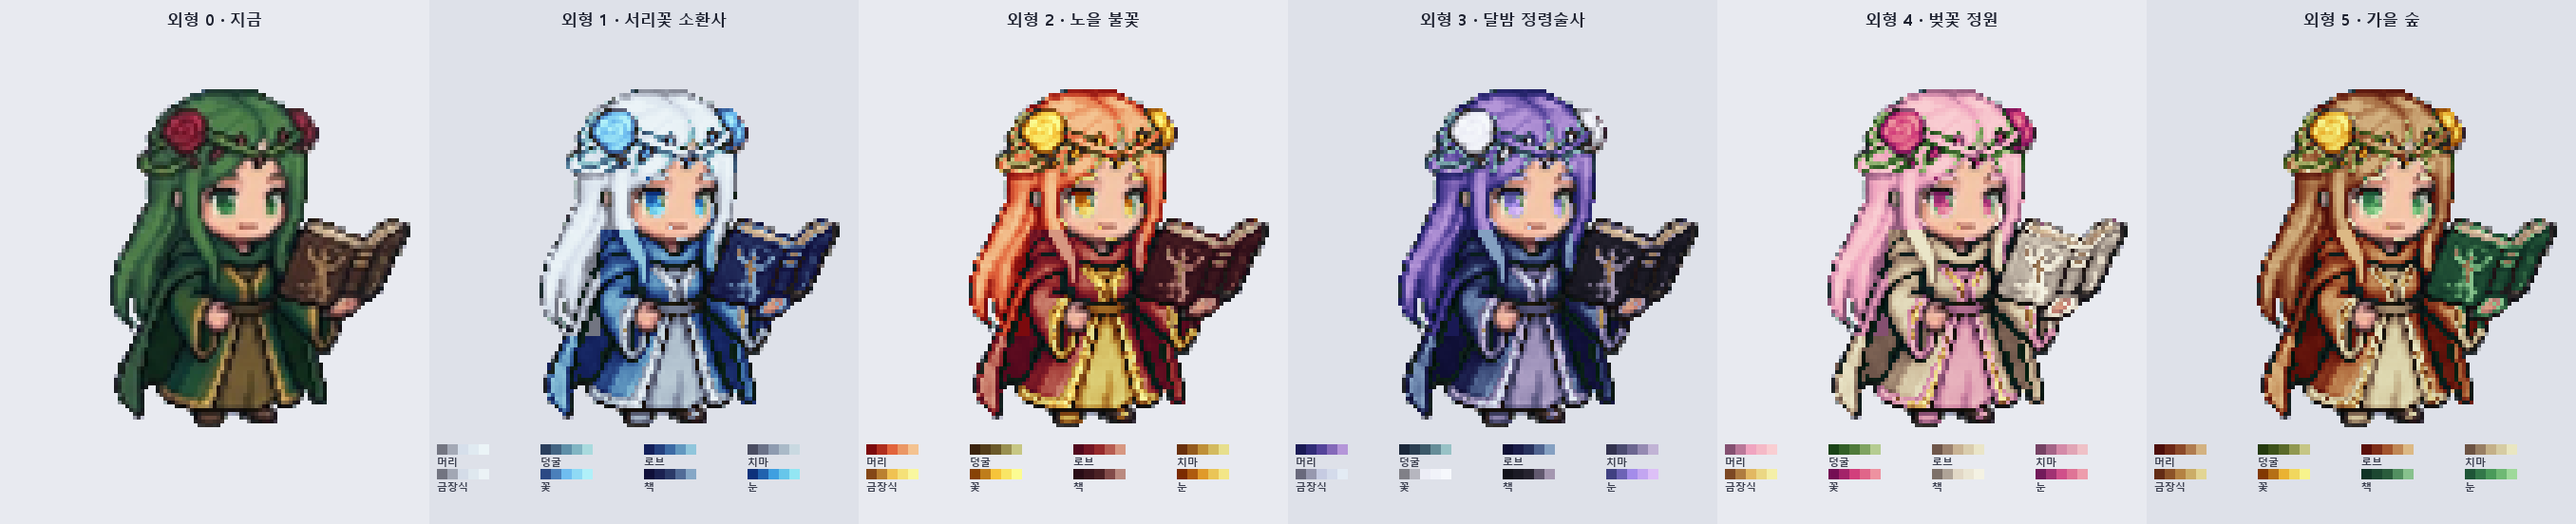
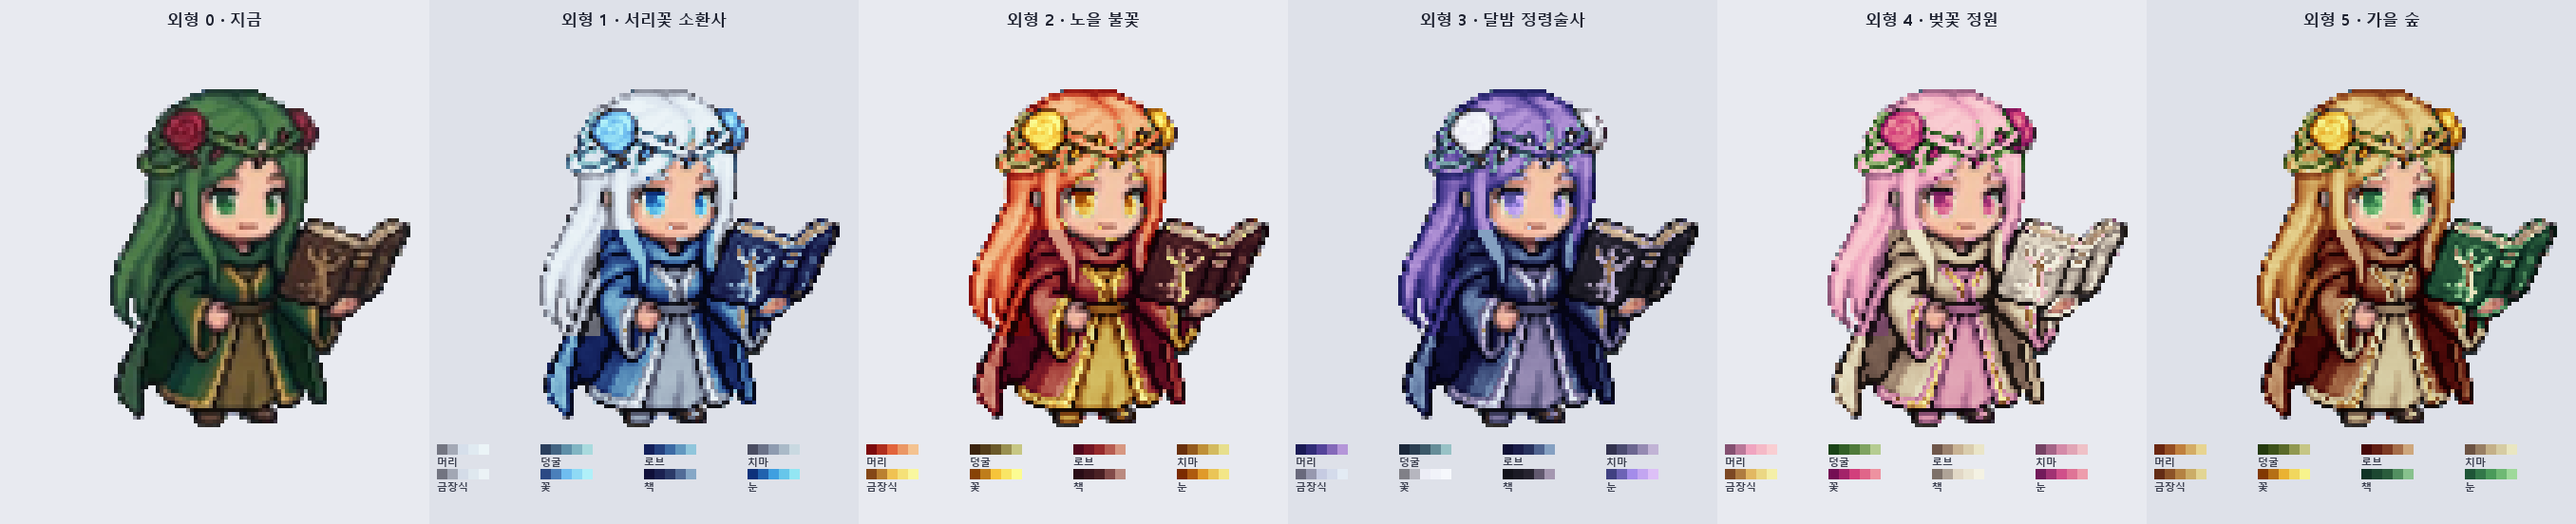
Summoner skin samples: fix outline and colour errors found frame by frame
Each sample was checked at 8x on a pixel grid.

Outline and colour fixes:
- Outlines: the original green-black outline stayed as it was, so the red, pink and rust robes had a teal rim. Outline pixels now take the darkest ramp hue of the nearest part (selout, as in pxl and pixel-art-studio) and keep their darkness. Outlines next to skin stay.
- Dark strands: pixels darker than the part's bottom 5% (hair strands, fold lines) go darker than the ramp's bottom colour by the same ratio, so the silver and pink hair keep their strands.
- Leftover green: faint edge pixels, low-saturation grey-green, teal shadows (hue 185-195) and the yellow-green around the crown kept the original colour. They now belong to their part.
- Eyes: the dull green at the bottom of the iris stayed green; the eye threshold is lower now. The fringe left of the eye stays hair.
- Book: only the cover (value under 0.5) is recoloured; the light page edges stay.

Colour change:
- 5 Autumn forest: hair and robe were both russet and merged at the shoulders. The hair is now light amber (#c0803e) and the robe a dark rust (#7e3b24).

diff --git a/tools/summoner_palette_preview.py b/tools/summoner_palette_preview.py
@@ -22,7 +22,7 @@ VARIANTS = [
     (2, '노을 불꽃',     dict(hair='#e2643c', vine='#6b5a2a', robe='#962a2c', skirt='#bf9038', trim='#f0c252', flower='#f6c43a', book='#4a2024', eyes='#e09a2a')),
     (3, '달밤 정령술사', dict(hair='#55449a', vine='#3d5a6a', robe='#28325e', skirt='#6c6690', trim='#c6cbe2', flower='#ecedf6', book='#26232f', eyes='#a48cea')),
     (4, '벚꽃 정원',     dict(hair='#f0a4c0', vine='#4f7a3a', robe='#c9b394', skirt='#d48aa8', trim='#e2b862', flower='#d23f7c', book='#e2d8c6', eyes='#d0508a')),
-    (5, '가을 숲',       dict(hair='#8c4a2a', vine='#5a6a2a', robe='#a3552e', skirt='#c4b088', trim='#b48242', flower='#eab232', book='#2a5c3c', eyes='#4a9a5a')),
+    (5, '가을 숲',       dict(hair='#c0803e', vine='#5a6a2a', robe='#7e3b24', skirt='#c4b088', trim='#b48242', flower='#eab232', book='#2a5c3c', eyes='#4a9a5a')),
 ]
 PARTS = ('hair', 'vine', 'robe', 'skirt', 'trim', 'flower', 'book', 'eyes')
 
@@ -50,15 +50,16 @@ def ramp_color(base, t, dark=0.45, light=0.62):
 
 
 def masks(im):
-    a = im[..., 3] > 200
+    a = im[..., 3] > 0   # 가장자리 반투명 픽셀까지 (빼면 머리 끝에 원래 회녹색이 남음)
     hsv = np.array([colorsys.rgb_to_hsv(*(p / 255)) for p in im[..., :3].reshape(-1, 3)]).reshape(H, W, 3)
     h, s, v = hsv[..., 0] * 360, hsv[..., 1], hsv[..., 2]
     yy, xx = np.mgrid[0:H, 0:W]
     outline = v < 0.14
     skin = a & (h >= 5) & (h < 40) & (s <= 0.45) & (v > 0.6)
-    green = a & (h >= 85) & (h < 185) & (s > 0.15) & ~outline
+    green = a & (h >= 85) & (h < 195) & (s > 0.08) & ~outline   # 채도 낮은 회녹색(머리 끝·로브 그늘)·청록빛 그늘(185~195)까지
+    green |= a & (h >= 70) & (h < 85) & (s > 0.08) & (yy < 40) & ~outline   # 화관 둘레 누런 초록 (치마 올리브와 겹치는 색이라 머리 높이에서만)
     eyebox = (xx >= 57) & (xx <= 74) & (yy >= 38) & (yy <= 48)   # 눈 왼쪽 앞머리(x 54~56)는 머리
-    eyes = green & eyebox & (s > 0.3)
+    eyes = green & eyebox & (s > 0.12)   # 홍채 아래쪽 흐린 초록까지
     hair = green & ~eyebox & ((yy < 52) | ((xx < 45) & (yy < 80)) | ((xx >= 75) & (xx < 84) & (yy < 62)))
     robe = green & ~hair & ~eyebox
     vine = hair & (yy >= 21) & (yy <= 36) & (xx >= 36) & (xx <= 84) & (v < 0.34) & (h >= 95)   # 화관 덩굴 (머리 위를 가로지르는 짙은 초록 띠)
@@ -67,22 +68,45 @@ def masks(im):
     bookbox = (xx >= 73) & (yy >= 46) & (yy < 78)
     book = a & ~outline & bookbox & ~skin & (((h < 40) | (h >= 330)) & (s > 0.2))
     bookgold = book & (h >= 28) & (v > 0.5)            # 책 표지 금박 무늬는 그대로
-    book &= ~bookgold
+    book &= ~bookgold & (v < 0.5)   # 표지만 (밝은 종이 가장자리는 그대로)
     flower = reddish & (yy < 36)
     warm = a & ~outline & ~skin & ~book & ~bookgold & ~flower & (h >= 12) & (h < 85) & (s > 0.2)
     trim = warm & (s > 0.45) & (v > 0.5)
     skirt = warm & ~trim
-    return dict(hair=hair, vine=vine, robe=robe, skirt=skirt, trim=trim, flower=flower, book=book, eyes=eyes), v
+    parts = dict(hair=hair, vine=vine, robe=robe, skirt=skirt, trim=trim, flower=flower, book=book, eyes=eyes)
+    # 윤곽선 (selout): 검은 윤곽 픽셀은 가장 가까운 부위(2칸 안)의 것으로. 피부·흰자에 붙은 윤곽은 그대로
+    from scipy import ndimage as ndi
+    line = a & outline
+    keys = list(parts)
+    dist = np.full((H, W), 99.0); owner = np.full((H, W), -1)
+    for i, k in enumerate(keys):
+        d = ndi.distance_transform_edt(~parts[k])
+        better = d < dist; dist[better] = d[better]; owner[better] = i
+    dskin = ndi.distance_transform_edt(~skin)
+    lines = {k: line & (owner == i) & (dist <= 2.5) & (dist < dskin) for i, k in enumerate(keys)}
+    return parts, v, lines
 
 
-def recolor(im, parts, val, colors):
+def recolor(im, parts, val, colors, lines=None):
     out = im.copy()
     for k, m in parts.items():
         c = colors.get(k)
         if c is None or not m.any(): continue
         lo, hi = np.percentile(val[m], 5), np.percentile(val[m], 95)
-        t = np.clip((val[m] - lo) / max(1e-3, hi - lo), 0, 1)
-        out[m, :3] = np.array([ramp_color(c, x) for x in t]) * 255
+        t = (val[m] - lo) / max(1e-3, hi - lo)
+        cols = np.array([ramp_color(c, x) for x in np.clip(t, 0, 1)])
+        # 계단 아래 5%보다 어두운 픽셀(머리카락 결·접힌 선)은 계단 맨 아래 색에서 원래 어두운 만큼 더 어둡게 → 밝은 머리도 결이 뭉개지지 않음
+        under = t < 0
+        if under.any():
+            k_ = np.clip(val[m][under] / max(1e-3, lo), 0.35, 1.0)
+            cols[under] = cols[under] * k_[:, None]
+        out[m, :3] = cols * 255
+        if lines is not None and lines[k].any():
+            # 윤곽 픽셀: 그 부위 맨 아래 색의 색조·채도에 원래 어두움 그대로 (pxl selout · pixel-art-studio 'selout' 윤곽)
+            hh, ss, vv = colorsys.rgb_to_hsv(*ramp_color(c, 0))
+            lv = val[lines[k]]
+            nv = np.clip(np.maximum(lv, 0.05) * 1.1, 0.04, vv * 0.45)
+            out[lines[k], :3] = np.array([colorsys.hsv_to_rgb(hh, min(1, ss * 0.9 + 0.1), x) for x in nv]) * 255
     return out
 
 
@@ -95,13 +119,13 @@ def font(sz):
 
 def main(path, mode=None):
     im = np.array(Image.open(SRC).convert('RGBA'))[:, :W].astype(float)
-    parts, val = masks(im)
+    parts, val, lines = masks(im)
     if mode == 'masks':
         col = im.copy(); col[..., :3] = col[..., :3] * 0.3 + 255 * 0.7
         for k, c in zip(PARTS, [(230, 40, 40), (120, 255, 120), (30, 150, 50), (240, 190, 0), (255, 120, 0), (230, 0, 230), (40, 60, 230), (0, 200, 220)]):
             col[parts[k], :3] = c
         Image.fromarray(col.astype(np.uint8), 'RGBA').resize((W * 6, H * 6), Image.NEAREST).save(path); return
-    cols = [('외형 0 · 지금', im, None)] + [(f'외형 {n} · {name}', recolor(im, parts, val, c), c) for n, name, c in VARIANTS]
+    cols = [('외형 0 · 지금', im, None)] + [(f'외형 {n} · {name}', recolor(im, parts, val, c, lines), c) for n, name, c in VARIANTS]
     cw, top, sw = W * SCALE, 34, 22
     sheet = Image.new('RGBA', (cw * len(cols), top + H * SCALE + 10 + sw * 2 + 40), (232, 234, 240, 255))
     d = ImageDraw.Draw(sheet); f = font(17); fs = font(11)

diff --git a/docs/summoner-skin-palette.md b/docs/summoner-skin-palette.md
@@ -12,6 +12,8 @@
 - **색조가 도는 명암 계단** (pixel-art-studio `ramp`, pxl `shades`): 부위마다 목표 색 하나로 계단을 만든다. 그림자는 파랑 쪽, 밝은 곳은 노랑 쪽으로 최대 16° 돌고, 채도는 중간 밝기에서 가장 높다. 그냥 어둡게·밝게 하면 흙빛으로 뭉개진다.
 - **명암 모양은 그대로**: 원래 픽셀이 그 부위 안에서 얼마나 밝은지(아래 5%~위 95%)를 계단 위 자리로 옮긴다.
 - **같은 재질은 한 계단**: 로브와 두건, 치마와 소매 안감은 같은 색이다. 큰 색 덩어리는 머리·로브·치마 셋으로 묶고, 꽃·눈·책이 포인트다.
+- **윤곽선 (selout)**: 원래 검은 윤곽 픽셀은 가장 가까운 부위(2칸 안)의 맨 아래 색 색조로, 어두움은 그대로 둔다. 초록빛 검은 윤곽이 붉은·분홍 로브 위에 청록 테두리로 남지 않게. 피부에 붙은 윤곽은 그대로.
+- **명암 계단 아래쪽 연장**: 부위 안 아래 5%보다 어두운 픽셀(머리카락 결·접힌 선)은 계단 맨 아래 색보다 원래 어두운 만큼 더 어둡게. 은백·연분홍 같은 밝은 머리도 결이 뭉개지지 않는다.
 - 마법사 외형(은회색·진홍, 민트·보라, 주황·검정, 분홍·청록, 금발·초록)과 겹치지 않게 잡았다.
 
 ## 후보 색 (목표 색 = 계단 가운데)
@@ -22,7 +24,14 @@
 | 2 | 노을 불꽃 | 주홍 `#e2643c` | 마른 잎 `#6b5a2a` | 진홍 `#962a2c` | 금 `#bf9038` | 금 `#f0c252` | 노랑 `#f6c43a` | 검붉음 `#4a2024` | 호박 `#e09a2a` |
 | 3 | 달밤 정령술사 | 남보라 `#55449a` | 청록 그늘 `#3d5a6a` | 짙은 남색 `#28325e` | 회보라 `#6c6690` | 은 `#c6cbe2` | 흰 달꽃 `#ecedf6` | 검정 `#26232f` | 연보라 `#a48cea` |
 | 4 | 벚꽃 정원 | 연분홍 `#f0a4c0` | 잎 초록 `#4f7a3a` | 크림 `#c9b394` | 분홍 `#d48aa8` | 금 `#e2b862` | 진분홍 `#d23f7c` | 상아 `#e2d8c6` | 분홍 `#d0508a` |
-| 5 | 가을 숲 | 적갈 `#8c4a2a` | 올리브 `#5a6a2a` | 녹슨 주황 `#a3552e` | 크림 `#c4b088` | 청동 `#b48242` | 노랑 `#eab232` | 짙은 초록 `#2a5c3c` | 초록 `#4a9a5a` |
+| 5 | 가을 숲 | 호박 `#c0803e` | 올리브 `#5a6a2a` | 짙은 녹빛 적갈 `#7e3b24` | 크림 `#c4b088` | 청동 `#b48242` | 노랑 `#eab232` | 짙은 초록 `#2a5c3c` | 초록 `#4a9a5a` |
+
+## 세부 점검에서 고친 것 (8배 확대, 칸마다)
+- 윤곽선: 원래 초록빛 검은 윤곽이 그대로 남아 2·4·5번 로브에 청록 테두리가 보였음 → selout
+- 머리 끝: 반투명 가장자리·채도 낮은 회녹색·청록빛 그늘(색조 185~195°)·화관 둘레 누런 초록이 원래 색으로 남았음 → 부위에 넣음
+- 눈동자: 홍채 아래쪽 흐린 초록이 남았음 → 채도 기준을 낮춤 (눈 왼쪽 앞머리 x 54~56은 머리로)
+- 책: 5번에서 밝은 종이 가장자리까지 표지 색이 됐음 → 표지(밝기 0.5 아래)만
+- 5번 가을 숲: 머리와 로브가 둘 다 적갈색이라 어깨에서 뭉쳤음 → 머리는 밝은 호박, 로브는 짙은 녹빛 적갈
 
 ## 고를 때 볼 점
 - 4 벚꽃 정원의 크림 로브는 밝아서 치마와 대비가 약하다. 고르면 로브를 한 단 어둡게 잡는다.
